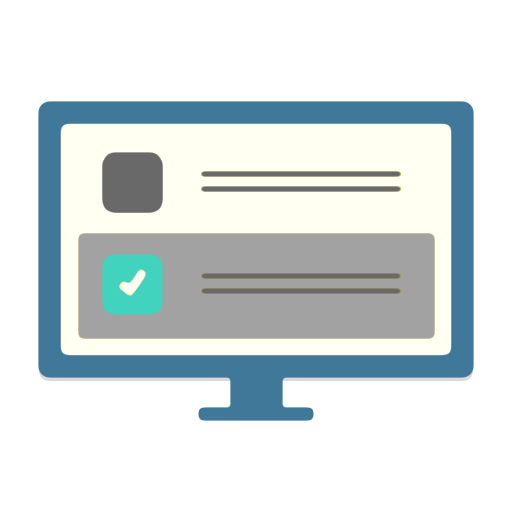
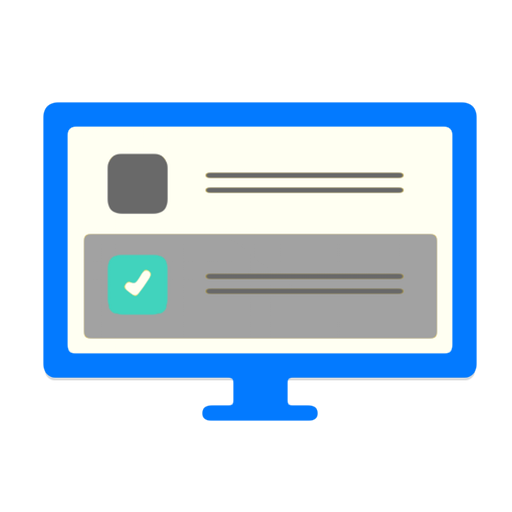
Change color, resize images, level dash headers, widen login form

diff --git a/public/templates/partials/navbar.html b/public/templates/partials/navbar.html
@@ -11,17 +11,10 @@
       <a class="navbar-brand" href="/#/">
         GoSnipIt <i class="fa fa-puzzle-piece"></i>
       </a>
-      <!-- Authorized {{logged.authorized}} -->
     </div>
 
     <!-- Collect the nav links, forms, and other content for toggling -->
     <div class="collapse navbar-collapse" id="bs-example-navbar-collapse-1">
-
-<!--       <a ui-sref="company.dashboard({'company_id': logged.user.company_id})">Dashboard</a>
-      <a ui-sref="company.project({'project_id': 20, 'company_id': logged.user.company_id})">Project</a>
-      <a ui-sref="company.user({'user_id': logged.user.id, 'company_id': logged.user.company_id})">{{logged.user.first_name}}</a>
-      <a ui-sref="company.snippet({'snippet_id': 1, 'company_id': logged.user.company_id})">Snippet</a> -->
-
 
       <ul class="nav navbar-nav navbar-right">
 

diff --git a/public/templates/dashboard.html b/public/templates/dashboard.html
@@ -80,9 +80,11 @@
   </div><!-- .recent-snippets -->
 
   <div class="col-md-5 project-subscriptions">
-    <h1>
-      Projects
-    </h1>
+    <header class="page-header">
+      <h1>
+        Projects
+      </h1>
+    </header>
     <ul class="list-group project-list">
 
       <li class="list-group-item clearfix" ng-repeat="project in data.dashboard.projects">

diff --git a/app/assets/stylesheets/styles/config/_colors.scss b/app/assets/stylesheets/styles/config/_colors.scss
@@ -4,9 +4,12 @@ $primary: #41D3BD;
 $secondary: #FFFFF2;
 $tertiary: #791E94;
 $quaternary: #DE6449;
-$quinary: #407899;
+$quinary: #037AFF;
 
+//New quinary
 //037AFF
+//Old quinary
+//407899;
 
 $light: #eee;
 $dark: #333;

diff --git a/app/assets/stylesheets/auth.scss b/app/assets/stylesheets/auth.scss
@@ -1,7 +1,7 @@
 //Auth
 
 #auth {
-  max-width: 256px;
+  max-width: 512px;
   margin: 128px auto 0 auto;
   border-radius: 8px;
   border: 1px solid #ccc;

diff --git a/app/assets/stylesheets/main.scss b/app/assets/stylesheets/main.scss
@@ -19,3 +19,8 @@ header.user {
     float: left;
   }
 }
+
+a.btn.btn-primary,
+button.btn.btn-primary {
+  background: $quinary;
+}
